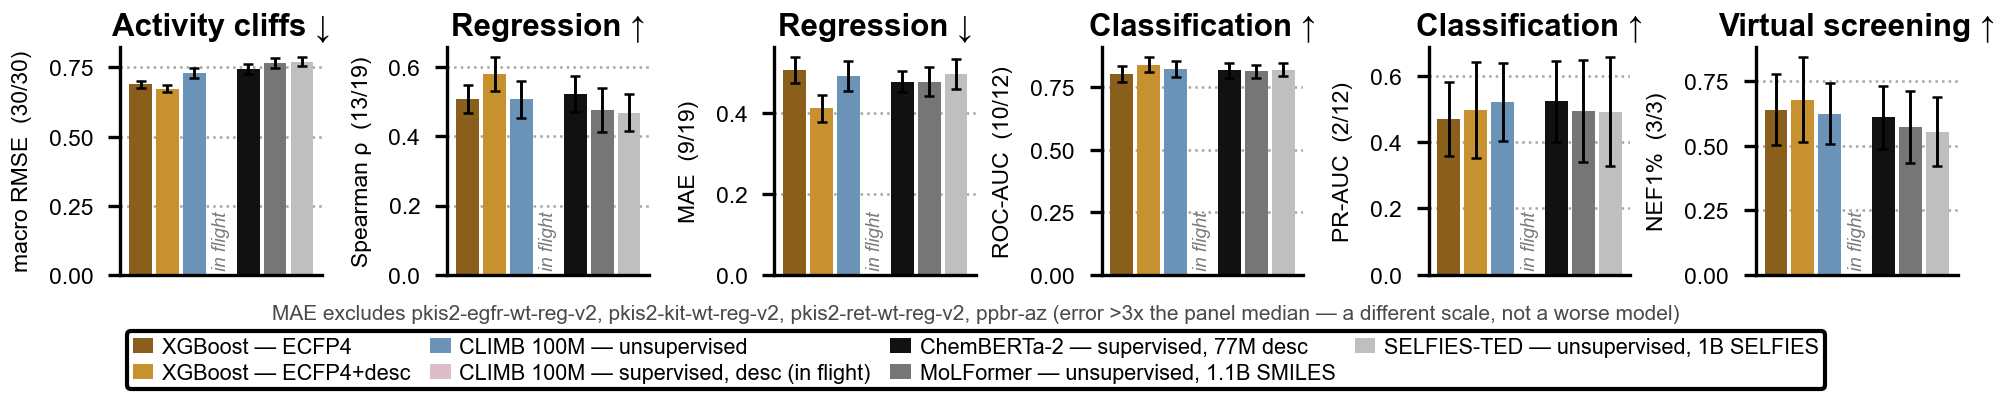
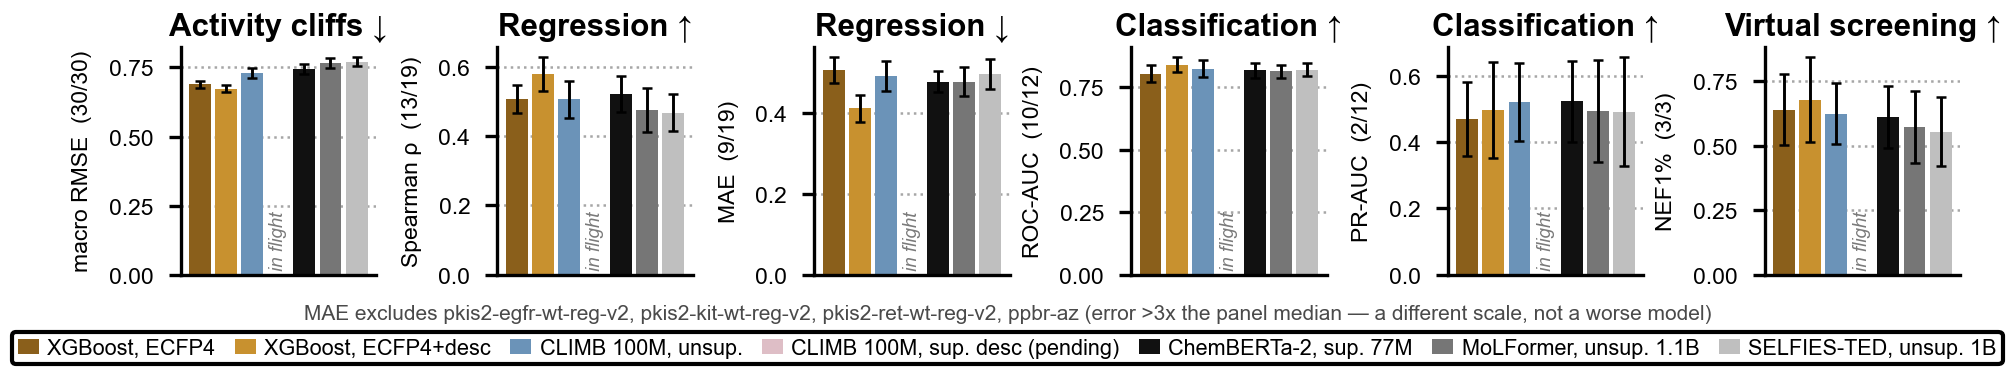
SI fig g: one legend row, which costs the input representation in the keys
Leif 2026-08-26: "use commas instead of emdashes so it fits into one row in the
legend." The commas are in, but measured at this face across the A4 text block
they were not the cost:

    full subtitles, em dashes      8.49in   27% over
    full subtitles, commas         8.49in   the dash was never the binding term
    objective + corpus + input     7.06in    5% over
    objective + corpus             6.60in   FITS

So what buys the row is dropping the input representation (desc / SMILES /
SELFIES) from the KEYS. It survives in fig_A's row labels and in the SI text, and
the objective and corpus scale -- the two things this plate compares -- stay.

Keys are built from the arms' own fields via _legend_label rather than written
out, and the render now WARNS if the legend exceeds the text block, because the
legend and not the axes sets this plate's crop width and a longer label would
otherwise silently make LaTeX scale every font down.

Plate is 6.71in tall by 1.25in.

diff --git a/figures/SI_fig_g.py b/figures/SI_fig_g.py
@@ -52,7 +52,7 @@ import matplotlib.pyplot as plt
 from matplotlib.patches import Patch
 
 from figures.style import STYLE, FS, save, check_font, LEGEND_BOX
-from figures.arms import ARMS, system, label as arm_label
+from figures.arms import ARMS, system, label as arm_label, _mols
 from figures import allsuites as A
 from figures import tasksuites as T
 
@@ -208,6 +208,33 @@ def _note_lines(res):
     return len(_notes(res))
 
 
+# ONE LEGEND ROW COSTS THE INPUT REPRESENTATION, and that is the trade rather than a free win
+# (Leif 2026-08-26: "use commas instead of emdashes so it fits into one row"). Measured at this
+# face, seven keys across the A4 text block:
+#
+#     full subtitles, em dashes      8.49in    27% over
+#     full subtitles, commas         8.49in    the dash was never the cost
+#     objective + corpus + input     7.06in     5% over -- so close it is worth knowing
+#     objective + corpus             6.60in    FITS
+#
+# So the comma alone does not do it; what does is dropping the input representation (desc / SMILES
+# / SELFIES) from the KEYS. It survives in fig_A's row labels and in the SI text, and the objective
+# and corpus scale -- the two things this plate is actually comparing -- stay.
+ABBREV = {"unsupervised": "unsup.", "supervised": "sup.",
+          "supervised, desc": "sup. desc", "supervised, desc+sparse": "sup. desc+sparse"}
+
+
+def _legend_label(a):
+    """Compact key text, built from the arm's fields rather than written out per arm."""
+    sysname, sub, _ = _meta(a)
+    if a in ARMS and ARMS[a].get("objective"):
+        d = ARMS[a]
+        obj = ABBREV.get(d["objective"], d["objective"])
+        mols = f" {_mols(d['pretrain_mols'])}" if d.get("pretrain_mols") else ""
+        return f"{sysname}, {obj}{mols}"
+    return f"{sysname}, {ABBREV.get(sub, sub)}"
+
+
 def _meta(a):
     if a in ARMS:
         return system(a), arm_label(a), ARMS[a]["color"]
@@ -237,7 +264,7 @@ def main():
     # reserved 0.46in for a box that renders at about 0.25in and parked a quarter-inch of white
     # under the footnotes. Draw it, ask it how tall it is, then build the canvas around the answer.
     notes = _notes(res)
-    fig_w = STYLE["col2"] * 0.985
+    fig_w = STYLE["col2"] * 0.956
     fig = plt.figure(figsize=(fig_w, 3.0))          # provisional height, replaced below
     axes = fig.subplots(1, len(PANELS))
 
@@ -310,16 +337,22 @@ def main():
         sysname, sub, c = _meta(a)
         pend = a not in ARMS
         handles.append(Patch(facecolor=c, edgecolor="none", alpha=0.35 if pend else 1.0,
-                             label=f"{sysname} — {sub}" + (" (in flight)" if pend else "")))
+                             label=_legend_label(a) + (" (pending)" if pend else "")))
     # THE LEGEND, NOT THE AXES, SETS THIS PLATE'S WIDTH. save() crops to drawn content, and seven
     # keys carrying subtitles like "unsupervised, 1.1B SMILES" are wider than six 0.65in panels --
     # so shrinking the canvas moved the bars and left the crop where it was. Four columns at this
     # face fit inside the text block; a fifth, or a larger face, does not.
-    leg = fig.legend(handles=handles, loc="lower center", bbox_to_anchor=(0.5, 0.0), ncol=4,
+    leg = fig.legend(handles=handles, loc="lower center", bbox_to_anchor=(0.5, 0.0),
+                     ncol=len(handles),
                      fontsize=FS["legend"] - 1.8, handlelength=0.95, handletextpad=0.4,
                      columnspacing=0.9, labelspacing=0.28, borderpad=0.28, **LEGEND_BOX)
 
     fig.canvas.draw()
+    leg_w = leg.get_window_extent().width / fig.dpi
+    if leg_w > STYLE["col2"] + 0.02:
+        print(f"  [SI_fig_g] WARNING legend is {leg_w:.2f}in against a {STYLE['col2']}in text "
+              f"block -- it, not the axes, will set the plate width and LaTeX will scale every "
+              f"font down. Shorten the keys or drop to two rows.")
     leg_in = leg.get_window_extent().height / fig.dpi
     fig_h = TOP_IN + TITLE_IN + PANEL_H + GAP_IN + NOTE_IN * len(notes) + leg_in + PAD_IN
     fig.set_size_inches(fig_w, fig_h)
